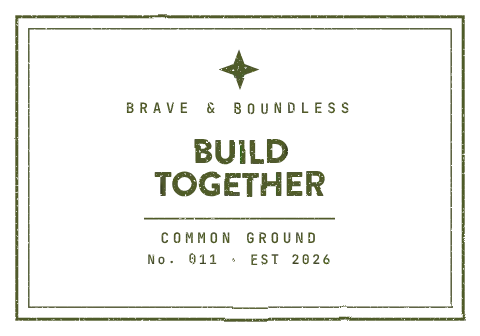
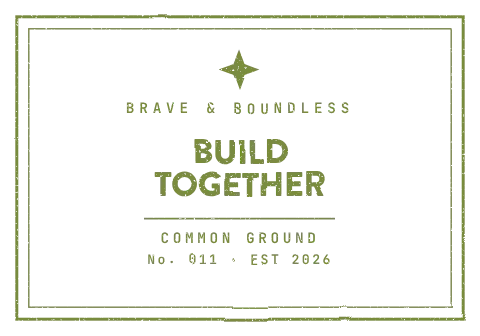
Put the stamps straight on the dark ground
No paper behind them. Each ink keeps its hue, lightened to read on black.

Claude-Session: https://claude.ai/code/session_01AJAbXUy6gpDffmB8D5uMDR

diff --git a/src/features/stamps/passport.tsx b/src/features/stamps/passport.tsx
@@ -28,19 +28,19 @@ export function StampImage({ ruleId, width, testID }: { ruleId: RuleId; width: n
 }
 
 /**
- * The Passport: a bone page with a slot per rule. Stamp inks only work on
- * bone (crimson is 2.1:1 on black), so the page is the brand's paper.
+ * The Passport: a slot per rule, straight on the dark ground (Mark: no paper
+ * behind the stamps). The stamps are re-inked lighter for black — see stampArt.
  */
 export function Passport({ data, slot }: { data: DrillData; slot: number }) {
   const stamps = rules.map((r) => stampFor(data, r.number));
   const count = stamps.filter(Boolean).length;
   return (
-    <View className="bg-bone p-4" testID="passport">
-      <Text accessibilityRole="header" className="font-bold text-xl uppercase tracking-wide text-charcoal-950">
+    <View testID="passport">
+      <Text accessibilityRole="header" className="font-medium text-sm uppercase tracking-widest text-ash">
         {copy.passport.title}
       </Text>
-      <Text className="mt-1 font-sans text-sm text-charcoal-700">{copy.passport.hint}</Text>
-      <Text className="mt-1 font-medium text-sm text-charcoal-950" testID="passport-count">
+      <Text className="mt-2 font-sans text-base text-ash">{copy.passport.hint}</Text>
+      <Text className="mt-1 font-medium text-base text-bone" testID="passport-count">
         {copy.passport.count(count)}
       </Text>
       <View className="mt-4 flex-row flex-wrap justify-between gap-y-3">
@@ -66,7 +66,7 @@ function Slot({ ruleId, stamp, size, index }: { ruleId: RuleId; stamp?: Stamp; s
           <StampImage ruleId={ruleId} width={size} testID={`stamp-${ruleId}`} />
         </Animated.View>
       ) : (
-        <Text className="font-medium text-base text-charcoal-700">{ruleId}</Text>
+        <Text className="font-medium text-base text-ash">{ruleId}</Text>
       )}
     </View>
   );

diff --git a/src/features/stamps/stamps.ts b/src/features/stamps/stamps.ts
@@ -30,9 +30,13 @@ export function earnedStamps(data: DrillData): Stamp[] {
 }
 
 /**
- * Stamp art, rendered from the brand's passport-stamp SVGs (sources in
- * assets/source/stamps). Rules 1, 2, 3, 6, 9, 14, 15 are the brand's own
- * stamps; the other 8 were built from the same template. `ratio` = width / height.
+ * Stamp art, rendered from the brand's passport-stamp SVGs. Rules 1, 2, 3, 6,
+ * 9, 14, 15 are the brand's own stamps; the other 8 were built from the same
+ * template. The app shows them on the dark ground with no paper behind, so the
+ * inks are lightened (same hue, ≥ 5:1 on black): crimson #7A1E22 → #D75A60,
+ * orange #C64A1E → #DE5525, slate #4F5B61 → #74858E, olive #4F5B2A → #798C41.
+ * Sources: assets/source/stamps (brand inks) and assets/source/stamps/dark
+ * (what ships). `ratio` = width / height.
  */
 export const stampArt: Record<RuleId, { source: ImageSourcePropType; ratio: number }> = {
   1: { source: require('../../../assets/images/stamps/01.webp'), ratio: 1 },

diff --git a/src/features/rules/rule-detail-screen.tsx b/src/features/rules/rule-detail-screen.tsx
@@ -84,10 +84,10 @@ export function RuleDetailScreen() {
             <View
               accessible
               accessibilityLabel={stampsCopy.a11y.earned(rule.number, rule.title, stamp.done)}
-              className="mb-4 flex-row items-center gap-4 bg-bone p-4"
+              className="mb-4 flex-row items-center gap-4"
               testID="rule-stamp">
               <StampImage ruleId={rule.number} width={120} />
-              <Text className="flex-1 font-medium text-base text-charcoal-950">{stampsCopy.rule.stamped(stamp.done)}</Text>
+              <Text className="flex-1 font-medium text-base text-bone">{stampsCopy.rule.stamped(stamp.done)}</Text>
             </View>
           ) : history.length > 0 ? (
             <Text className="mb-3 font-sans text-base text-ash">{stampsCopy.rule.notYet}</Text>

diff --git a/src/theme/palette.js b/src/theme/palette.js
@@ -11,7 +11,8 @@
 //
 // Every text/background pair the UI uses is listed in TEXT_PAIRS and checked
 // for WCAG contrast >= 4.5:1 in src/theme/__tests__/contrast.test.ts.
-// Crimson on black is 2.1:1, so crimson only ever sits on bone (stamps).
+// Crimson on black is 2.1:1, so crimson never sits on the dark ground. The
+// stamps use lightened inks instead (src/features/stamps/stamps.ts).
 
 /** @type {const} */
 const palette = {
@@ -49,7 +50,6 @@ const TEXT_PAIRS = [
   ['bone', 'ember.dim'], // rule-map cell text
   ['crimson', 'bone'], // stamp ink on the passport page
   ['charcoal.950', 'bone'], // text on the passport page
-  ['charcoal.700', 'bone'], // muted text and slot numbers on the passport page
   ['charcoal.950', 'gold'],
 ];
 

diff --git a/src/features/progress/progress-screen.tsx b/src/features/progress/progress-screen.tsx
@@ -41,9 +41,9 @@ export function ProgressScreen() {
   const run = streak(data);
   const mantra = streakMantra(data);
   const tallies = ruleTallies(data);
-  // Passport: 3 slots a row inside the 24pt gutters and the page's 16pt padding.
+  // Passport: 3 slots a row inside the 24pt gutters.
   const { width: screen } = useWindowDimensions();
-  const slot = Math.floor((Math.min(screen, 560) - 48 - 32 - 24) / 3);
+  const slot = Math.floor((Math.min(screen, 560) - 48 - 24) / 3);
 
   return (
     <SafeAreaView edges={['top']} className="flex-1 bg-charcoal-950">

diff --git a/CLAUDE.md b/CLAUDE.md
@@ -153,3 +153,4 @@ Seed `rules` from `content/bb-rule-cards.json` via a migration script; the JSON 
 - 2026-11-06 — **Passport stamps, assets** (Mark supplied `passport stamps/svg`). One stamp per rule; **no part stamps** (Mark). Brand stamps used as-is for rules 1, 2, 3, 6 (Build Your Own), 9 (Anchor Your Soul), 14 (Raise the Standard), 15 (Live Your Legacy); the other 8 built from the brand's unused stamps (same shapes, inks, grain filter) with the chapter title and a new place line (**draft, needs Mark's OK**: 4 THE EDGE, 5 CENTER STAGE, 7 THE STORM, 8 THE MIRROR, 10 THE DEEP END, 11 COMMON GROUND, 12 THE CROSSING, 13 HOME GROUND). Every stamp's number = rule number. Fixed in the sources: the bottom ring text was drawn on a clockwise arc and read upside down. Rendered to 480px transparent WebP with Brandon Grotesque Black + JetBrains Mono (rasterised — static images, no font files ship). SVG sources in `assets/source/stamps/`. Earning: `src/features/stamps/stamps.ts` (all 3 spine days answered; undo takes it back).
 - 2026-11-06 — `copy/navigation.ts` **approved** (Mark: "tab names are fine").
 - 2026-11-06 — **Stamps, in the app** (Mark delegated: "make a judgement call"). Kept, quietly: a **Passport** on Progress (bone page, a slot per rule; earned stamps sit slightly tilted, unearned slots are dashed outlines with the rule number) and the stamp at the top of "Your record" on each rule page. **No pop-up or celebration** when a stamp is earned — it just appears, in keeping with the brief's no-confetti line. Stamp inks only work on bone (crimson is 2.1:1 on black), so stamps never sit on the dark ground. `copy/stamps.ts` approved under that delegation; the 8 new place lines stand.
+- 2026-11-06 — **Stamps on the dark ground** (Mark: "no light paper behind it"). The bone page is gone from the Passport and the rule page. Stamps keep each brand ink's hue but are lightened to ≥ 5:1 on black (crimson → #D75A60, orange → #DE5525, slate → #74858E, olive → #798C41); brand-ink SVGs stay in `assets/source/stamps`, the shipped dark set in `assets/source/stamps/dark`.
